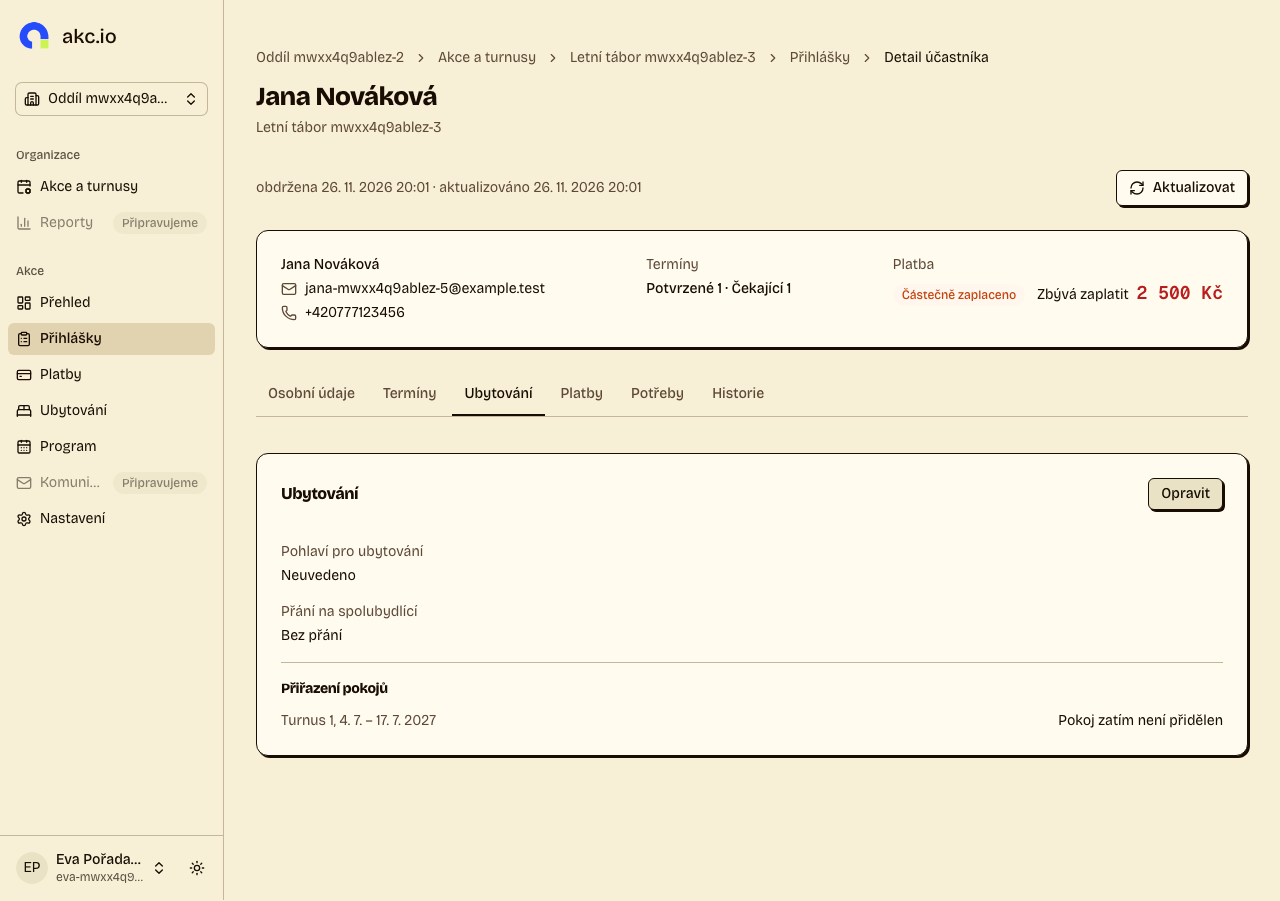
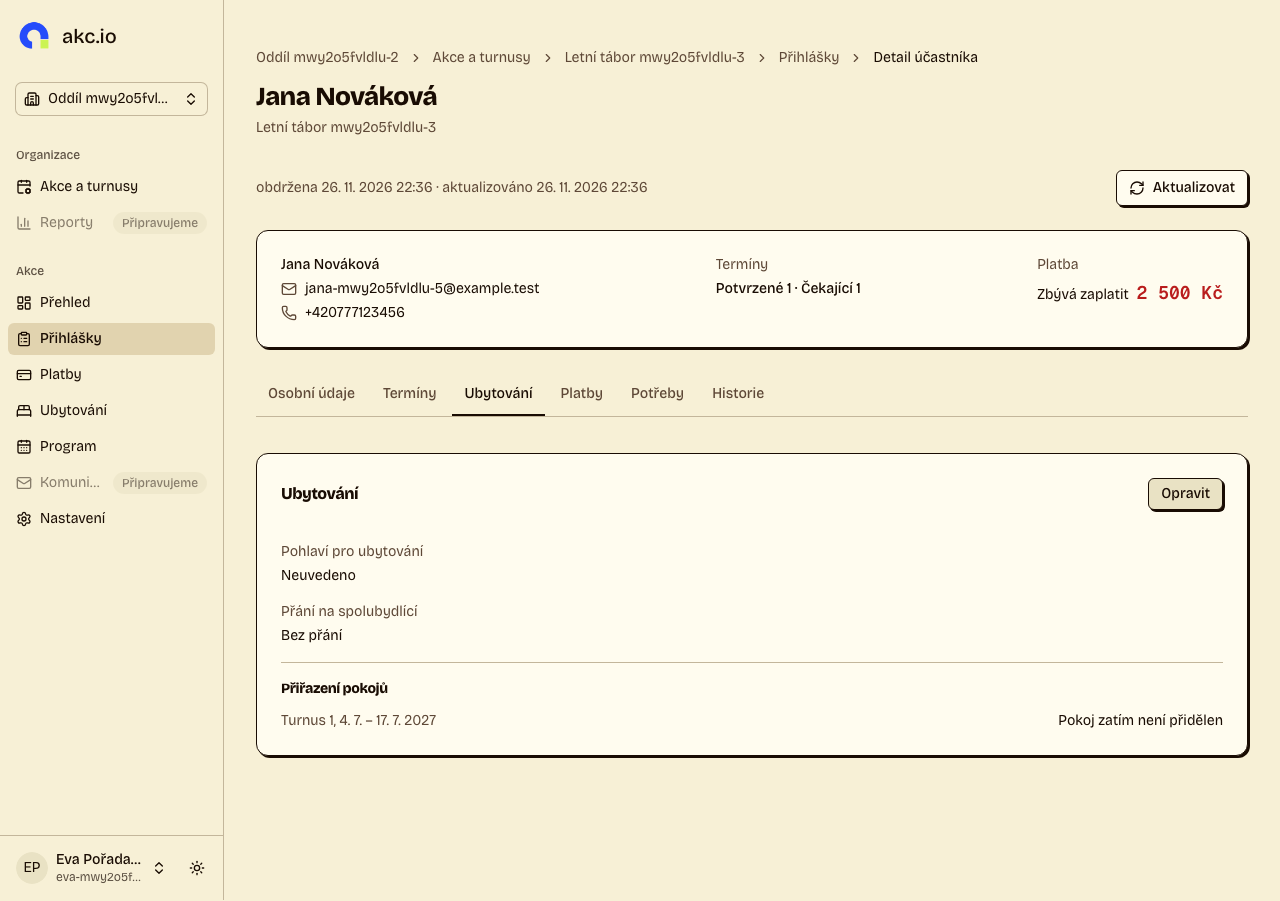
fix(registrations): drop the payment state badge and the dividers between terms
Review feedback: the summary keeps only the text with the remaining amount, and
the list of terms has no horizontal lines between its items.

diff --git a/apps/frontend/src/features/registrations/components/RegistrationDetail.tsx b/apps/frontend/src/features/registrations/components/RegistrationDetail.tsx
@@ -15,7 +15,6 @@ import { formatCzk } from "@/lib/money"
 
 import { type RegistrationDetail as Detail } from "@/features/registrations/api/eventRegistrationSchemas"
 import { BalanceAmount } from "@/features/registrations/components/BalanceAmount"
-import { PaymentStateBadge } from "@/features/registrations/components/PaymentStateBadge"
 import { QuestionAnswersList } from "@/features/registrations/components/QuestionAnswersList"
 import { ReceivedPaymentsTable } from "@/features/registrations/components/ReceivedPaymentsTable"
 import {
@@ -152,7 +151,7 @@ export function RegistrationDetail({
                 <CardTitle>Termíny</CardTitle>
               </CardHeader>
               <CardContent>
-                <ul className="divide-y divide-border text-sm">
+                <ul className="text-sm">
                   {registration.terms.map((term) => (
                     <li
                       key={term.termId}
@@ -257,21 +256,18 @@ function RegistrationSummary({ registration }: { registration: Detail }) {
               Potvrzené {confirmed} · Čekající {waiting}
             </p>
           </div>
-          <div className="space-y-1 text-sm">
-            <p className="text-muted-foreground">Platba</p>
-            <div className="flex flex-wrap items-baseline gap-3">
-              <PaymentStateBadge state={registration.paymentState} />
-              {hasObligation ? (
-                <span className="flex items-baseline gap-2">
-                  <span>{isOverpaid ? "Přeplatek" : "Zbývá zaplatit"}</span>
-                  <BalanceAmount
-                    amount={formatCzk(Math.abs(registration.balanceMinor))}
-                    isSettled={registration.balanceMinor <= 0}
-                  />
-                </span>
-              ) : null}
+          {hasObligation ? (
+            <div className="space-y-1 text-sm">
+              <p className="text-muted-foreground">Platba</p>
+              <p className="flex items-baseline gap-2">
+                <span>{isOverpaid ? "Přeplatek" : "Zbývá zaplatit"}</span>
+                <BalanceAmount
+                  amount={formatCzk(Math.abs(registration.balanceMinor))}
+                  isSettled={registration.balanceMinor <= 0}
+                />
+              </p>
             </div>
-          </div>
+          ) : null}
         </div>
       </CardContent>
     </Card>

diff --git a/apps/frontend/e2e/money-path.spec.ts b/apps/frontend/e2e/money-path.spec.ts
@@ -163,13 +163,12 @@ test("an organizer opens an event, participants register and payments settle the
     await page.getByRole("link", { name: "Přihláška Anna Nováková" }).click()
     await page.getByRole("tab", { name: "Platby" }).click()
     await recordPayment("2000")
-    await expect(page.getByText("Částečně zaplaceno")).toBeVisible()
     await expect(definition(page, "Zbývá zaplatit")).toHaveText("2 500 Kč")
   })
 
   await step(page, "12 · Doplatek 2 500 Kč vyrovná dluh", async () => {
     await recordPayment("2500")
-    await expect(page.getByText("Zaplaceno", { exact: true }).first()).toBeVisible()
+    await expect(definition(page, "Zbývá zaplatit")).toHaveText("0 Kč")
     await expect(definition(page, "Zaplaceno")).toHaveText("4 500 Kč")
   })
 

diff --git a/apps/frontend/src/features/registrations/components/RegistrationDetail.test.tsx b/apps/frontend/src/features/registrations/components/RegistrationDetail.test.tsx
@@ -173,7 +173,7 @@ describe("RegistrationDetail", () => {
       variableSymbol: null,
       payments: [],
     })
-    expect(screen.getByText("Bez povinnosti")).toBeInTheDocument()
+    expect(screen.queryByText("Bez povinnosti")).not.toBeInTheDocument()
     expect(screen.queryByText("Celkem k úhradě")).not.toBeInTheDocument()
     expect(screen.queryByText("Zbývá zaplatit")).not.toBeInTheDocument()
     expect(screen.queryByText("Datum připomenutí platby")).not.toBeInTheDocument()

diff --git a/apps/frontend/src/features/accommodation/components/TermDecisions.tsx b/apps/frontend/src/features/accommodation/components/TermDecisions.tsx
@@ -40,7 +40,7 @@ export function TermDecisions({
   selectedTermId?: string
 } & TermDecisionHandlers) {
   const content = (
-    <ul className="divide-y divide-border text-sm">
+    <ul className="text-sm">
       {terms.map((term) => (
         <li
           key={term.id}
